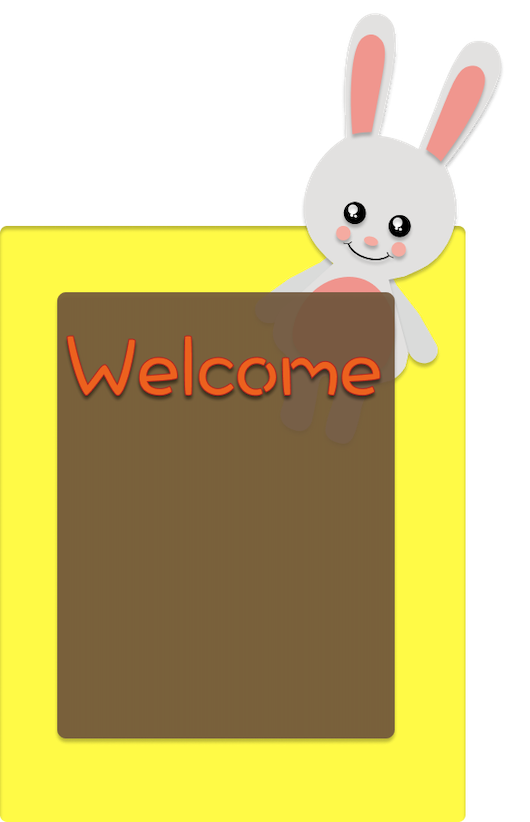
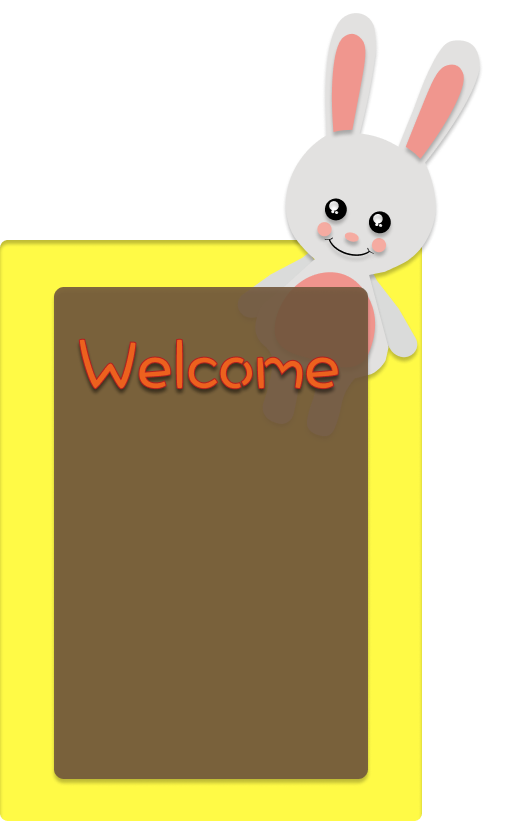
fixed login nestting, and login css

diff --git a/src/css/Login.css b/src/css/Login.css
@@ -8,7 +8,7 @@ body{
     flex: 'flex-shrink';
     padding-top: 3em;
     position: absolute;
-    top: 12%;
+    top: 10%;
     left: 50%;
     margin-right: -50%;
     transform: translate(-50%, -50%) 
@@ -19,7 +19,7 @@ body{
     padding-top: 3em;
     position: absolute;
     top: 58%;
-    left: 38%;
+    left: 40%;
     margin-right: -50%;
     transform: translate(-50%, -50%) 
 }
@@ -29,7 +29,7 @@ body{
     height: 900px;
     width: 600px;
     position: absolute;
-    top: 58%;
+    top: 60%;
     left: 50%;
     margin-right: -50%;
     transform: translate(-50%, -50%) 

diff --git a/src/ApplicationViews.js b/src/ApplicationViews.js
@@ -5,19 +5,20 @@ import Sidekick from "./components/Sidekick";
 import Store from "./components/Store";
 import Stuff from "./components/Stuff";
 import ShowOff from "./components/ShowOff";
+import Home from "./components/Home"
 
 export default class ApplicationViews extends Component {
 	render() {
 		console.log("from app js", this.props);
 		return (
 			<>
-				{/* <Route
+				<Route
 					exact
 					path="/"
 					render={props => {
 						return <Home />;
 					}}
-				/> */}
+				/>
 				<Route
 					exact
 					path="/sidekick"

diff --git a/src/App.js b/src/App.js
@@ -6,7 +6,6 @@
 import React, { Component } from 'react'
 import ApplicationViews from "../src/ApplicationViews";
 import "bootstrap/dist/css/bootstrap.min.css";
-import Login from "../src/components/Login"
 import "../src/css/App.css";
 
 
@@ -46,7 +45,7 @@ class App extends Component {
 	render() {
 		return (
 			<>
-			<Login />
+
 				<ApplicationViews
 					user={this.state.user}
 					isAuthenticated={this.isAuthenticated}

diff --git a/src/components/Home.js b/src/components/Home.js
@@ -1,0 +1,15 @@
+import React, { Component } from "react";
+import Login from "../components/Login";
+import "../../src/css/Show.css";
+
+class Home extends Component {
+	render() {
+		return (
+			<>
+				<Login />
+			</>
+		);
+	}
+}
+
+export default Home;
